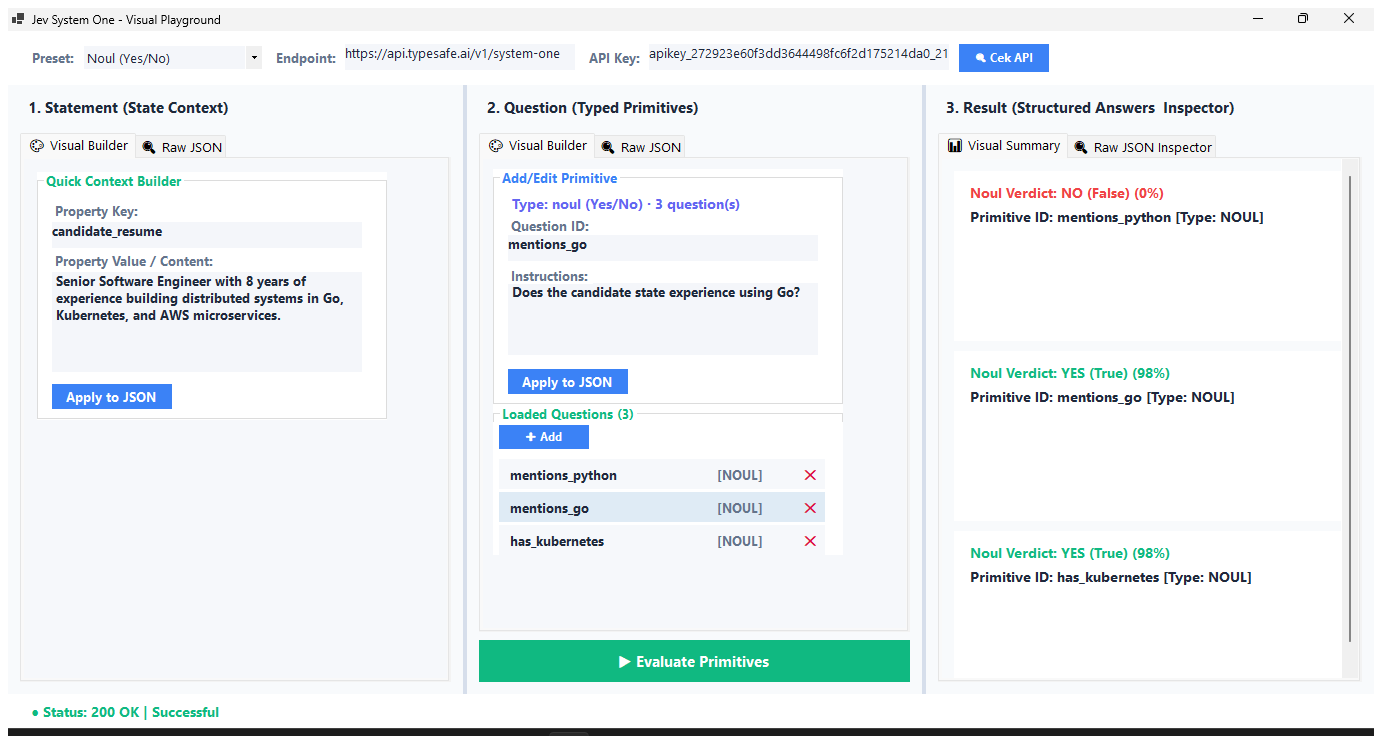
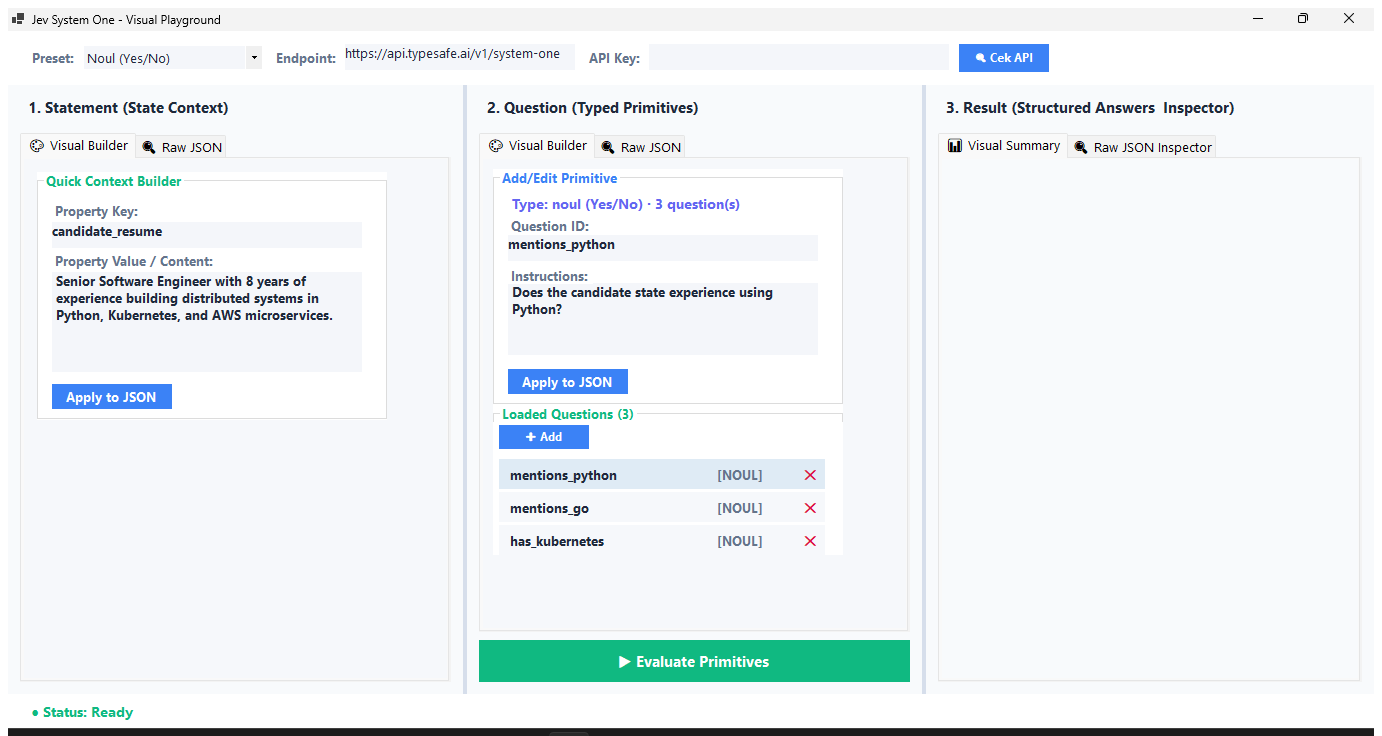
Remove hardcoded API key (resolve via JEV_SYSTEM_ONE_API_KEY env / %%AppData%% config); Apply to JSON now renames question key on ID change; regenerate screenshot, README config docs

diff --git a/Program.cs b/Program.cs
@@ -1,6 +1,7 @@
 using System;
 using System.Collections.Generic;
 using System.Drawing;
+using System.IO;
 using System.Linq;
 using System.Runtime.InteropServices;
 using System.Text.Json;
@@ -22,7 +23,48 @@ static class Program
 
 public class JevPlaygroundForm : Form
 {
-    private const string DefaultApiKey = "apikey_272923e60f3dd3644498fc6f2d175214da0_21c7fcdf476d01cfc89715050d0ca8492d7e1b2502f3082905c2a9f57c05a4d9";
+    private const string ApiKeyEnvVar = "JEV_SYSTEM_ONE_API_KEY";
+
+    private static string ApiKeyConfigDir => Path.Combine(Environment.GetFolderPath(Environment.SpecialFolder.ApplicationData), "JevSystemOne");
+
+    private static string ApiKeyConfigFile => Path.Combine(ApiKeyConfigDir, "config.json");
+
+    private static string ResolveApiKey()
+    {
+        string? env = Environment.GetEnvironmentVariable(ApiKeyEnvVar);
+        if (!string.IsNullOrWhiteSpace(env)) return env.Trim();
+        try
+        {
+            if (File.Exists(ApiKeyConfigFile))
+            {
+                using var doc = JsonDocument.Parse(File.ReadAllText(ApiKeyConfigFile));
+                if (doc.RootElement.TryGetProperty("apiKey", out var k) && k.ValueKind == JsonValueKind.String)
+                {
+                    var v = k.GetString();
+                    if (!string.IsNullOrWhiteSpace(v)) return v.Trim();
+                }
+            }
+        }
+        catch
+        {
+        }
+        return "";
+    }
+
+    private static void SaveApiKeyLocal(string apiKey)
+    {
+        if (string.IsNullOrWhiteSpace(apiKey)) return;
+        string? env = Environment.GetEnvironmentVariable(ApiKeyEnvVar);
+        if (!string.IsNullOrWhiteSpace(env) && env.Trim() == apiKey) return;
+        try
+        {
+            Directory.CreateDirectory(ApiKeyConfigDir);
+            File.WriteAllText(ApiKeyConfigFile, JsonSerializer.Serialize(new { apiKey }, new JsonSerializerOptions { WriteIndented = true }));
+        }
+        catch
+        {
+        }
+    }
 
     private static readonly Color ColBg = Color.FromArgb(248, 250, 252);
     private static readonly Color ColCard = Color.White;
@@ -54,6 +96,7 @@ public class JevPlaygroundForm : Form
     private Label lblQcrit = null!;
     private Button btnApplyQ = null!;
     private Button btnApplyJson = null!;
+    private string _selectedQId = "";
     private GroupBox gbQ = null!;
     private GroupBox gbQList = null!;
     private FlowLayoutPanel pnlQList = null!;
@@ -81,6 +124,7 @@ public class JevPlaygroundForm : Form
             UpdateSplitterDistances();
             await PerformEvaluationAsync();
         };
+        this.FormClosing += (s, e) => SaveApiKeyLocal(txtApiKey.Text.Trim());
     }
 
     private const uint EM_SETRECT = 0x00B3;
@@ -198,7 +242,7 @@ public class JevPlaygroundForm : Form
         txtEndpoint = new TextBox { Text = "https://api.typesafe.ai/v1/system-one", Width = 230, Font = new Font("Segoe UI", 9.5F), BackColor = ColInput, ForeColor = ColText, BorderStyle = BorderStyle.None, AutoSize = false, Height = 26, Margin = new Padding(0, 4, 10, 0) };
 
         Label lblKey = new Label { Text = "API Key:", Width = 60, TextAlign = ContentAlignment.MiddleRight, Font = new Font("Segoe UI", 9.5F, FontStyle.Bold), ForeColor = ColMuted, Margin = new Padding(0, 6, 4, 0) };
-        txtApiKey = new TextBox { Text = DefaultApiKey, Width = 300, Font = new Font("Segoe UI", 9.5F), BackColor = ColInput, ForeColor = ColText, BorderStyle = BorderStyle.None, AutoSize = false, Height = 26, Margin = new Padding(0, 4, 10, 0) };
+        txtApiKey = new TextBox { Text = ResolveApiKey(), Width = 300, Font = new Font("Segoe UI", 9.5F), BackColor = ColInput, ForeColor = ColText, BorderStyle = BorderStyle.None, AutoSize = false, Height = 26, Margin = new Padding(0, 4, 10, 0) };
 
         btnCheckApi = new Button
         {
@@ -324,12 +368,36 @@ public class JevPlaygroundForm : Form
         btnApplyJson.Click += (s, e) => {
             try
             {
-                var t = JsonNode.Parse(txtQuestionsJson.Text) as JsonObject;
-                if (t == null) throw new InvalidOperationException("Questions JSON is empty");
-                txtQuestionsJson.Text = t.ToJsonString(new JsonSerializerOptions { WriteIndented = true });
+                var target = JsonNode.Parse(txtQuestionsJson.Text) as JsonObject;
+                if (target == null) throw new InvalidOperationException("Questions JSON is empty");
+
+                string rawId = txtQId.Text.Trim();
+                if (rawId.Length == 0) throw new InvalidOperationException("Question ID is empty");
+
+                var q = ComposeQuestionFromForm(_builderType);
+                string action;
+                if (_selectedQId.Length > 0 && _selectedQId != rawId && target.ContainsKey(_selectedQId))
+                {
+                    target.Remove(_selectedQId);
+                    target[rawId] = q;
+                    action = $"renamed '{_selectedQId}' → '{rawId}'";
+                }
+                else if (target.ContainsKey(rawId))
+                {
+                    target.Remove(rawId);
+                    target[rawId] = q;
+                    action = $"updated '{rawId}'";
+                }
+                else
+                {
+                    target[rawId] = q;
+                    action = $"added '{rawId}'";
+                }
+                _selectedQId = rawId;
+                txtQuestionsJson.Text = target.ToJsonString(new JsonSerializerOptions { WriteIndented = true });
                 UpdateQCount();
                 RefreshQuestionList();
-                lblStatus.Text = $" ● Status: Questions JSON applied — {t.Count} question(s)";
+                lblStatus.Text = $" ● Status: Question {action} — {target.Count} question(s) now";
             }
             catch (Exception ex)
             {
@@ -355,27 +423,7 @@ public class JevPlaygroundForm : Form
                     txtQId.Text = rawId;
                 }
 
-                var q = new JsonObject
-                {
-                    ["type"] = type,
-                    ["instructions"] = txtQInstructions.Text.Trim()
-                };
-                if (type == "choice")
-                {
-                    var parts = txtQCriterias.Text.Split(',').Select(p => p.Trim()).Where(p => p.Length > 0).ToList();
-                    if (parts.Count == 0) parts.Add("Option A");
-                    var crit = new JsonObject();
-                    foreach (var p in parts) crit[p] = "Option " + p;
-                    q["criteria"] = crit;
-                }
-                else if (type == "score")
-                {
-                    var parts = txtQCriterias.Text.Split(',').Select(p => p.Trim()).Where(p => p.Length > 0).ToList();
-                    if (parts.Count == 0) parts.Add("Severity Level");
-                    var arr = new JsonArray();
-                    foreach (var p in parts) arr.Add(p);
-                    q["criteria"] = arr;
-                }
+                var q = ComposeQuestionFromForm(type);
 
                 string suf = rawId;
                 bool appended = false;
@@ -413,6 +461,7 @@ public class JevPlaygroundForm : Form
                 txtQuestionsJson.Text = target.ToJsonString(new JsonSerializerOptions { WriteIndented = true });
                 UpdateQCount();
                 RefreshQuestionList();
+                _selectedQId = rawId;
             }
             catch (Exception ex)
             {
@@ -559,6 +608,32 @@ public class JevPlaygroundForm : Form
         lblQTypeInfo.Text = $"{lblQTypeInfo.Text.Split('·')[0].TrimEnd()} · {count} question(s)";
     }
 
+    private JsonObject ComposeQuestionFromForm(string type)
+    {
+        var q = new JsonObject
+        {
+            ["type"] = type,
+            ["instructions"] = txtQInstructions.Text.Trim()
+        };
+        if (type == "choice")
+        {
+            var parts = txtQCriterias.Text.Split(',').Select(p => p.Trim()).Where(p => p.Length > 0).ToList();
+            if (parts.Count == 0) parts.Add("Option A");
+            var crit = new JsonObject();
+            foreach (var p in parts) crit[p] = "Option " + p;
+            q["criteria"] = crit;
+        }
+        else if (type == "score")
+        {
+            var parts = txtQCriterias.Text.Split(',').Select(p => p.Trim()).Where(p => p.Length > 0).ToList();
+            if (parts.Count == 0) parts.Add("Severity Level");
+            var arr = new JsonArray();
+            foreach (var p in parts) arr.Add(p);
+            q["criteria"] = arr;
+        }
+        return q;
+    }
+
     private void RefreshQuestionList()
     {
         if (gbQList == null || pnlQList == null) return;
@@ -614,6 +689,7 @@ public class JevPlaygroundForm : Form
             if (!doc.RootElement.TryGetProperty(id, out var q) || q.ValueKind != JsonValueKind.Object) return;
 
             txtQId.Text = id;
+            _selectedQId = id;
             if (q.TryGetProperty("instructions", out var ins))
             {
                 txtQInstructions.Text = ins.ValueKind == JsonValueKind.String ? ins.GetString() ?? "" : "";
@@ -712,6 +788,7 @@ public class JevPlaygroundForm : Form
             if (first.Value.ValueKind != JsonValueKind.Object) return;
 
             txtQId.Text = first.Name;
+            _selectedQId = first.Name;
             if (first.Value.TryGetProperty("instructions", out var ins))
             {
                 txtQInstructions.Text = ins.ValueKind == JsonValueKind.String ? ins.GetString() ?? "" : "";

diff --git a/README.md b/README.md
@@ -23,7 +23,7 @@ Multiple questions — even mixed types — can be sent together in one request 
 - **Preset scenarios** (header dropdown): Choice (Routing), Score (Rubric), Noul (Yes/No) — one click loads a realistic state + question set.
 - **Loaded Questions** list: every question in the JSON is shown; click to edit, ✕ to delete, **➕ Add** (dynamic: empty ID → auto `q{n}`, duplicate → `_2`, `_3`, …) plus an **Apply to JSON** button under the Add/Edit Primitive group.
 - **Result rendering**: visual summary cards per answer plus a raw JSON inspector.
-- **"Cek API"** check, editable endpoint & API key.
+- **"Cek API"** check, editable endpoint & API key (configured via env var / local user config, see below).
 - **Light theme** with flat controls, no borders, modern spacing.
 - **GitHub Pages** documentation site (classic retro theme): <https://adyoi.github.io/jev-system-one-playground/> (source in [`docs/`](docs/index.html)).
 
@@ -35,6 +35,22 @@ Multiple questions — even mixed types — can be sent together in one request 
 
 - [.NET SDK 10.0.x](https://dotnet.microsoft.com/download) (built against `net10.0-windows`)
 - Windows 10/11
+
+## API Key configuration
+
+The API key is **never stored in the repo**. It is resolved at startup in this order:
+
+1. Environment variable `JEV_SYSTEM_ONE_API_KEY`
+2. Local per-user file `%AppData%\JevSystemOne\config.json` → `{ "apiKey": "…" }` (auto-written when you edit the key in the UI and close the app)
+3. Empty box (prompted on use)
+
+```powershell
+# PowerShell
+$env:JEV_SYSTEM_ONE_API_KEY = "apikey_..."   # per-session
+setx JEV_SYSTEM_ONE_API_KEY "apikey_..."     # persistent, current user
+```
+
+> Security note: no API key has ever been committed to this repo (it was recreated clean). If you ever reuse/publish a key elsewhere, treat it like a usual secret.
 
 ## Build & Run
 
@@ -122,5 +138,4 @@ dotnet publish -c Release -p:PublishProfile=win-x64
 
 - Evaluation is simulated (see above); real API wiring + typed response parsing are the main next step.
 - UI is a single file; consider splitting into panes, evaluator, and theme modules as it grows.
-- API key is pre-filled as a default; prefer storing user settings outside the build and protecting with DPAPI.
 - No persistence of custom presets yet.
